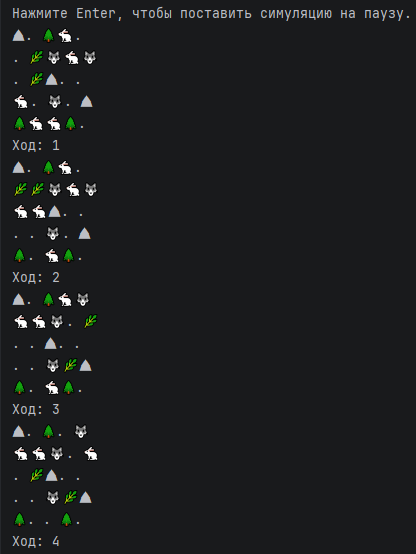
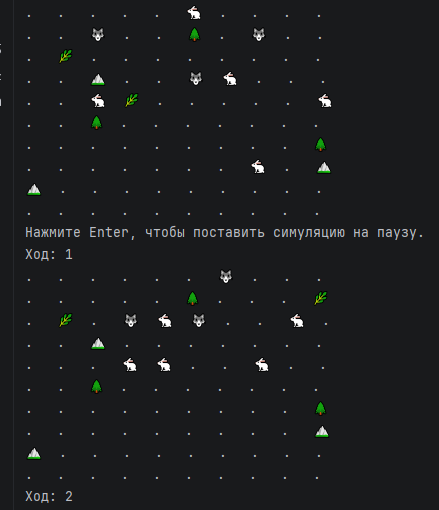
Обновлена документация и скриншоты симуляции

diff --git a/README.md b/README.md
@@ -22,11 +22,19 @@
 Проект разделён на несколько пакетов по зонам ответственности:
 
 - `model` — сущности мира, координаты и карта;
-- `action` — действия, выполняемые при инициализации и на каждом ходу симуляции;
-- `engine` — управление жизненным циклом симуляции;
-- `pathfinding` — поиск пути с помощью BFS;
+- `action` — создание и выполнение действий, первоначальное размещение сущностей и поддержание популяций;
+- `engine` — жизненный цикл симуляции, выполнение ходов и счётчик ходов;
+- `pathfinding` — поиск кратчайшего пути к цели с помощью алгоритма BFS;
 - `view` — отображение состояния карты в консоли;
-- `app` — точка входа в приложение.
+- `app` — точка входа, настройка зависимостей и обработка пользовательских команд.
+
+Основные компоненты:
+
+- `Main` — создаёт необходимые зависимости и запускает приложение;
+- `SimulationController` — обрабатывает команды паузы и продолжения;
+- `ActionFactory` — формирует наборы действий для инициализации и каждого хода;
+- `Simulation` — выполняет действия, управляет ходами и обновляет отображение карты;
+- `MapRenderer` — выводит карту и спрайты сущностей в консоль.
 
 
 ## Технологии
